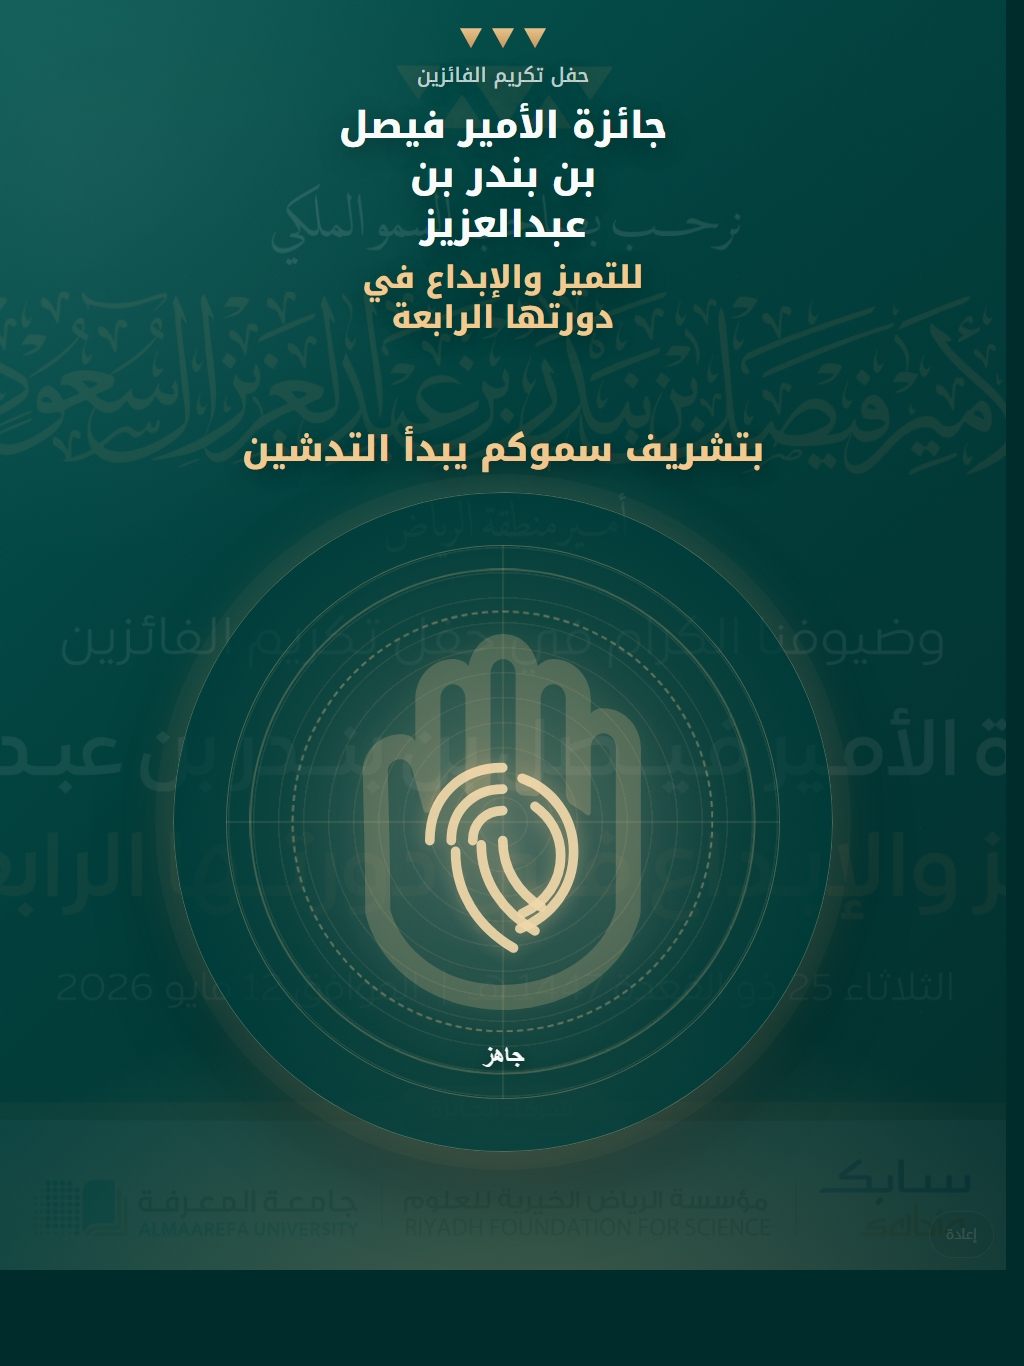
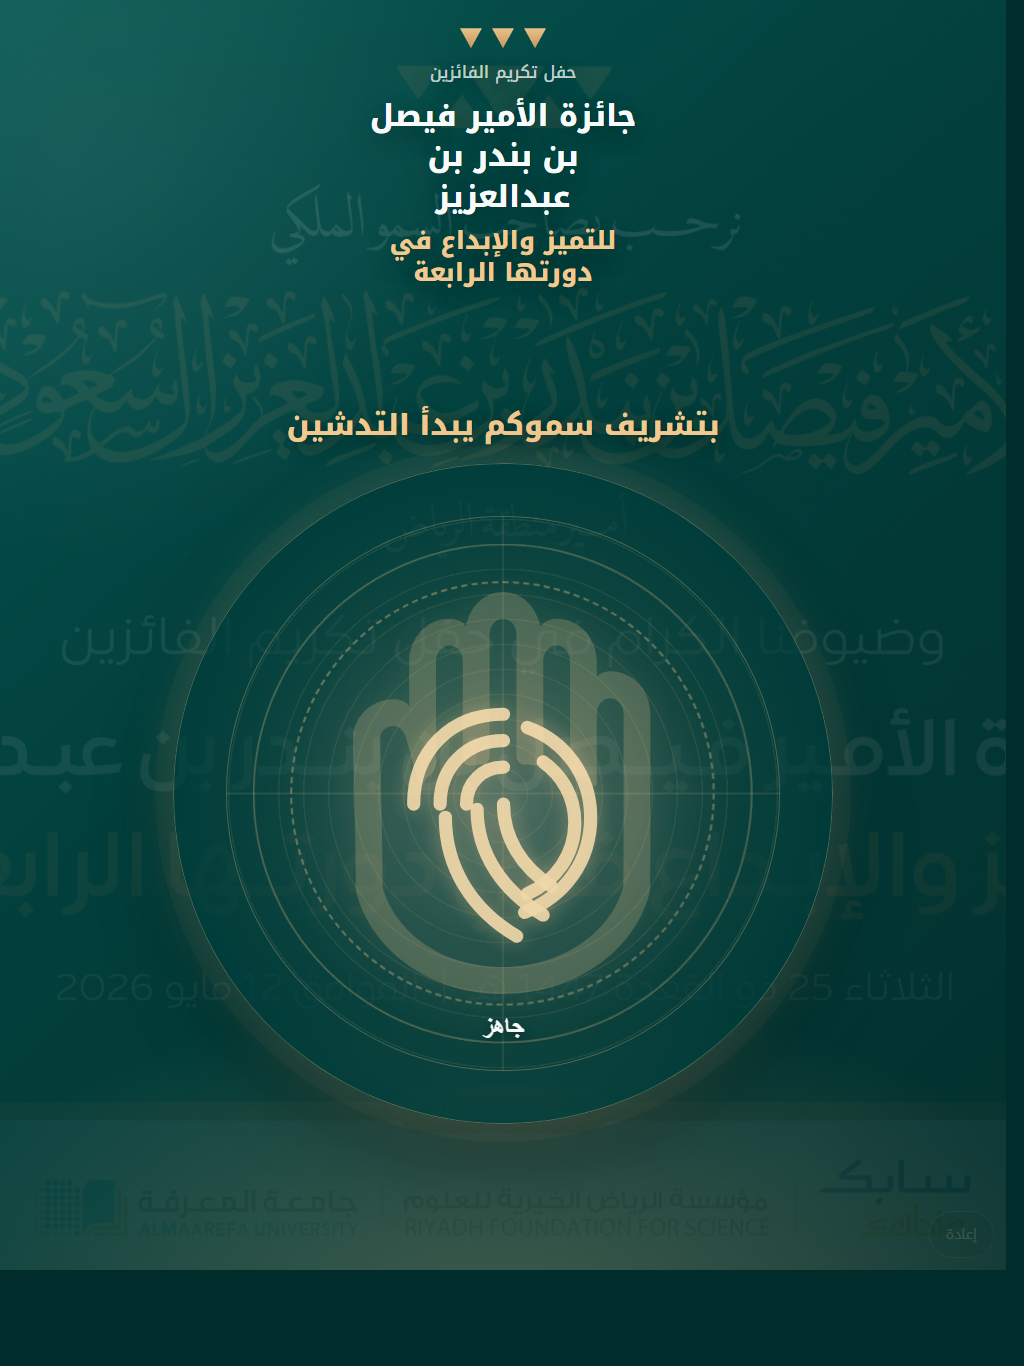
Center and enlarge fingerprint

diff --git a/styles.css b/styles.css
@@ -158,20 +158,20 @@ body {
 
 .brand p {
   color: var(--muted);
-  font-size: clamp(15px, 1.8dvh, 22px);
+  font-size: clamp(13px, 1.55dvh, 19px);
   font-weight: 500;
 }
 
 .brand h1 {
   color: var(--white);
-  font-size: clamp(25px, 3.8dvh, 52px);
+  font-size: clamp(22px, 3.25dvh, 44px);
   font-weight: 800;
   line-height: 1.35;
 }
 
 .brand h2 {
   color: var(--gold-light);
-  font-size: clamp(21px, 3.1dvh, 42px);
+  font-size: clamp(18px, 2.55dvh, 35px);
   font-weight: 800;
   line-height: 1.32;
 }
@@ -189,7 +189,7 @@ body {
 .status-line {
   min-height: 1.24em;
   color: var(--gold-light);
-  font-size: clamp(23px, 3.25dvh, 40px);
+  font-size: clamp(19px, 2.7dvh, 34px);
   font-weight: 800;
   line-height: 1.42;
   text-align: center;
@@ -270,7 +270,7 @@ body {
 .hand-mark {
   position: relative;
   z-index: 1;
-  width: 58%;
+  width: 62%;
   height: auto;
   display: block;
   opacity: 0.24;
@@ -282,7 +282,7 @@ body {
 .palm-print {
   position: absolute;
   z-index: 2;
-  width: 58%;
+  width: 62%;
   aspect-ratio: 1;
   transform: scaleX(-1);
   background:
@@ -300,12 +300,12 @@ body {
 .fingerprint-lines {
   position: absolute;
   z-index: 3;
-  width: 39%;
+  width: 48%;
   height: auto;
-  transform: translateY(4%) scaleX(-1);
+  transform: translateY(0) scaleX(-1);
   fill: none;
   stroke: rgba(255, 226, 177, 0.92);
-  stroke-width: 4.5;
+  stroke-width: 5;
   stroke-linecap: round;
   stroke-linejoin: round;
   filter: drop-shadow(0 0 10px rgba(242, 201, 143, 0.45));
@@ -532,23 +532,23 @@ body {
   }
 
   .brand p {
-    font-size: clamp(14px, 1.65dvh, 20px);
+    font-size: clamp(12px, 1.4dvh, 17px);
   }
 
   .brand h1 {
     max-width: 9.8em;
-    font-size: clamp(24px, 3dvh, 37px);
-    line-height: 1.34;
+    font-size: clamp(19px, 2.45dvh, 30px);
+    line-height: 1.35;
   }
 
   .brand h2 {
     max-width: 11.5em;
-    font-size: clamp(20px, 2.45dvh, 31px);
+    font-size: clamp(16px, 2dvh, 25px);
     line-height: 1.3;
   }
 
   .status-line {
-    font-size: clamp(23px, 2.8dvh, 35px);
+    font-size: clamp(18px, 2.35dvh, 29px);
     line-height: 1.35;
   }
 
@@ -563,11 +563,11 @@ body {
   }
 
   .brand h1 {
-    font-size: clamp(24px, 3.55dvh, 40px);
+    font-size: clamp(21px, 3dvh, 34px);
   }
 
   .brand h2 {
-    font-size: clamp(20px, 3dvh, 34px);
+    font-size: clamp(17px, 2.55dvh, 29px);
   }
 
   .brand p {
@@ -575,7 +575,7 @@ body {
   }
 
   .status-line {
-    font-size: clamp(21px, 3.2dvh, 34px);
+    font-size: clamp(18px, 2.65dvh, 29px);
   }
 
   .palm-pad {
